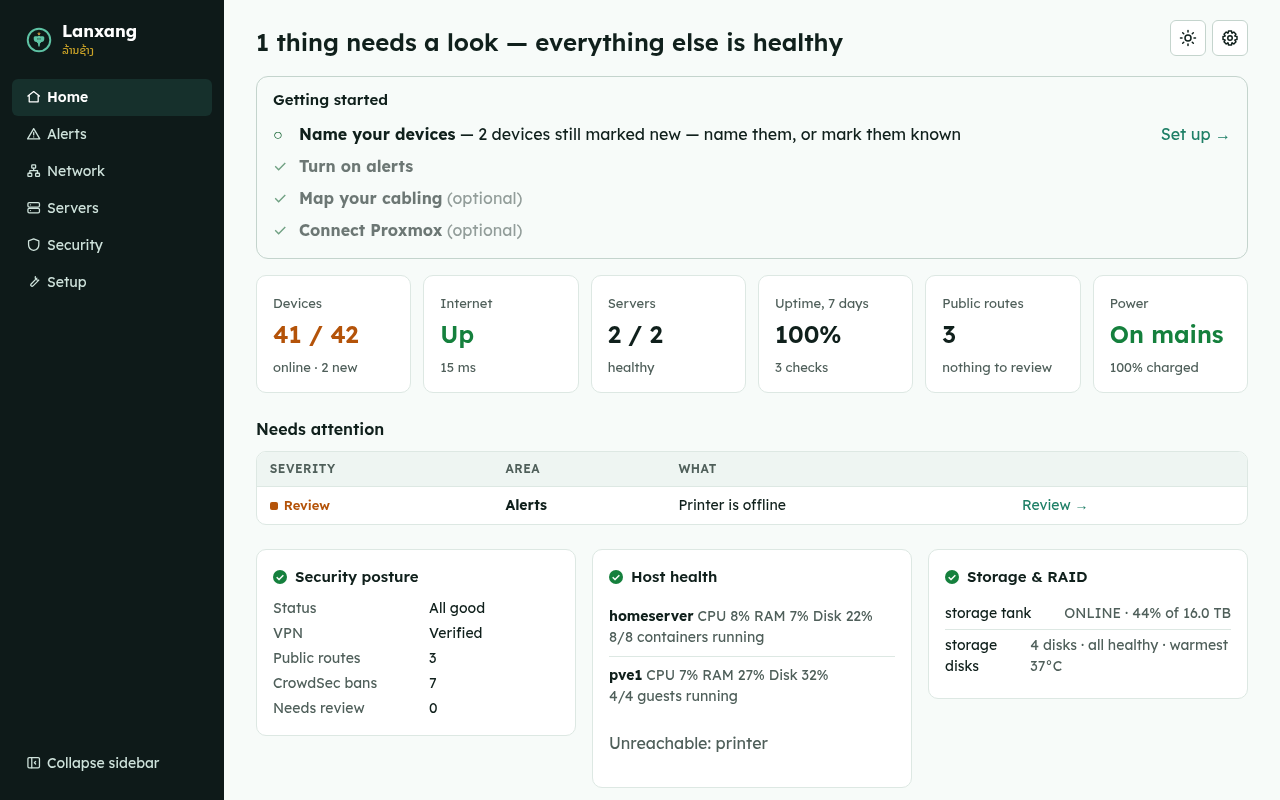
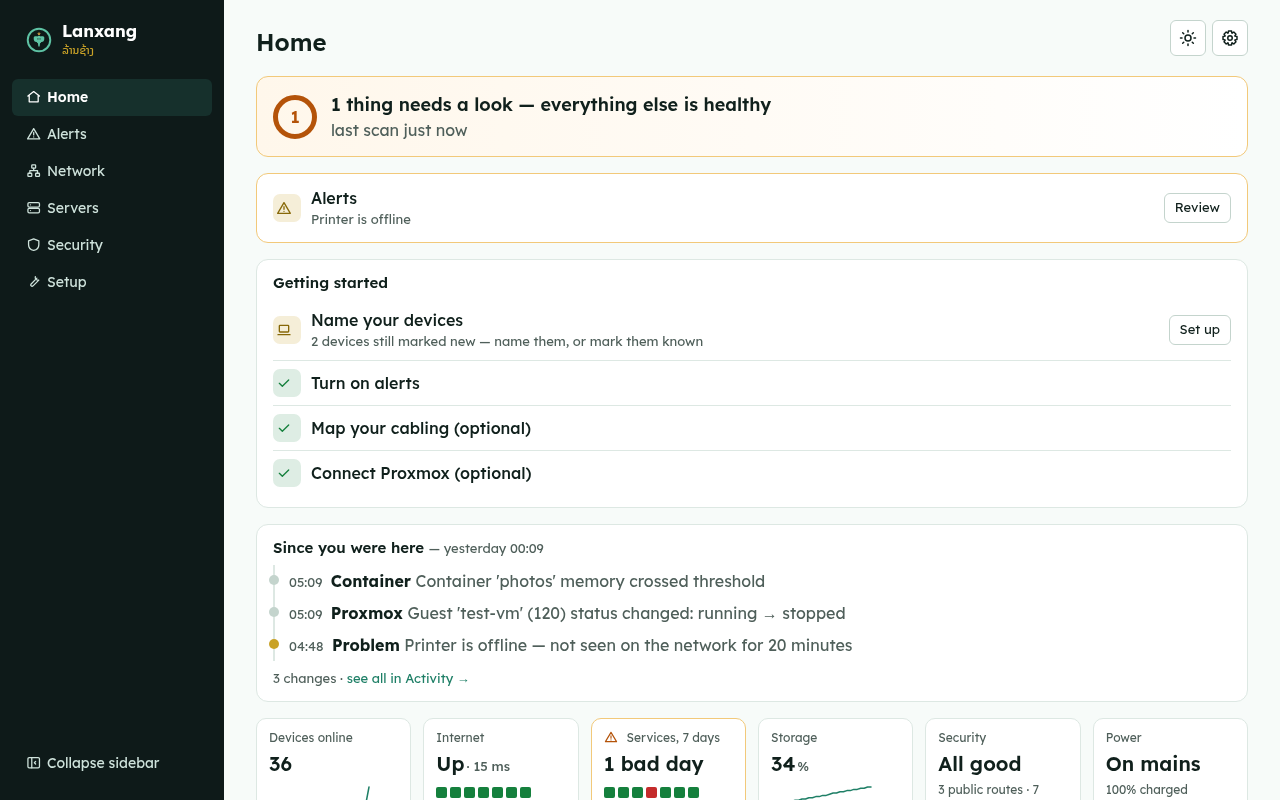
Release 1.5.0: design pass screenshots, docs and version

diff --git a/tests/test_cli_smoke.py b/tests/test_cli_smoke.py
@@ -16,7 +16,7 @@ def test_version():
     result = runner.invoke(app, ["version"])
 
     assert result.exit_code == 0
-    assert "1.4.2" in result.output
+    assert "1.5.0" in result.output
 
 
 def test_status():

diff --git a/lanxang/__init__.py b/lanxang/__init__.py
@@ -1,1 +1,1 @@
-__version__ = "1.4.2"
+__version__ = "1.5.0"

diff --git a/CHANGELOG.md b/CHANGELOG.md
@@ -3,7 +3,9 @@
 All notable changes to Lanxang. Versions follow [semantic versioning](https://semver.org); the
 Docker image is published as `ghcr.io/cyb3rron1n/lanxang:<version>` for every release.
 
-## Unreleased
+## 1.5.0 - 2026-11-20
+
+A design pass: Home becomes a briefing of what's wrong and what changed since your last visit, Coverage says whether you can trust the device list and how to see more, and Overview and Uptime get trend lines and a status line.
 
 ### Changed
 - Scan history (each source's runs) is kept for 8 days instead of the last 50 runs, so Coverage can show a week.
@@ -24,8 +26,8 @@ Docker image is published as `ghcr.io/cyb3rron1n/lanxang:<version>` for every re
   week counts, and a source whose latest run failed keeps the headline from reading as all-clear.
 - Security trends: the charts have gridlines and x/y values (sizes or counts up the side, times or weekdays along
   the bottom), in your own clock and time zone instead of UTC.
-- Overview: each host and Proxmox node meter (CPU, RAM, disk) has the last 24 hours as a small line beside it, a
-  short list of counts (containers, Proxmox guests, LAN hosts) links to where each is listed, and the inventory
+- Overview: each host and Proxmox node meter (CPU, RAM, disk) has the last 24 hours as a small line beside it (and the
+  page loads faster: it no longer computes Home's briefing), a short list of counts (containers, Proxmox guests, LAN hosts) links to where each is listed, and the inventory
   dump folds under "Raw snapshot".
 - Uptime: a headline over the checks ("All 3 checks up", "1 check down"), counting the built-in Internet check when
   it is on ("Internet down", "Internet and all 3 checks up"). A check with no recent result reads as unknown, never

diff --git a/docs/index.md b/docs/index.md
@@ -57,6 +57,22 @@ pieces fit together.
 
 <p align="center">
   <picture>
+    <source media="(prefers-color-scheme: dark)" srcset="images/screenshots/coverage-dark.png">
+    <img src="images/screenshots/coverage-light.png" alt="Coverage page: how many devices two or more sources see, a card per source with its last 7 days, and ways to see more of the network" style="max-width: 100%; width: 900px;">
+  </picture><br>
+  <sub>The Coverage page, shown with example data.</sub>
+</p>
+
+<p align="center">
+  <picture>
+    <source media="(prefers-color-scheme: dark)" srcset="images/screenshots/overview-dark.png">
+    <img src="images/screenshots/overview-light.png" alt="Servers overview: each host's CPU, RAM and disk with the last 24 hours as a small line, and counts of containers and Proxmox guests" style="max-width: 100%; width: 900px;">
+  </picture><br>
+  <sub>The Servers overview, shown with example data.</sub>
+</p>
+
+<p align="center">
+  <picture>
     <source media="(prefers-color-scheme: dark)" srcset="images/screenshots/setup-dark.png">
     <img src="images/screenshots/setup-light.png" alt="The Setup tab: what is on your network, then cards for ntfy, webhooks and email" style="max-width: 100%; width: 820px;">
   </picture><br>

diff --git a/README.md b/README.md
@@ -23,7 +23,7 @@ It never changes anything on its own. Restarting a container or a VM is only eve
 <p align="center">
   <picture>
     <source media="(prefers-color-scheme: dark)" srcset="docs/images/screenshots/home-dark.png">
-    <img src="docs/images/screenshots/home-light.png" alt="Lanxang home page: one sentence saying one thing needs a look, a Getting started checklist, number tiles for devices, internet, servers, uptime, public routes and power, a Needs attention table with the offline printer, and cards for security posture, host health and storage" width="90%">
+    <img src="docs/images/screenshots/home-light.png" alt="Lanxang home page: a status line saying one thing needs a look, the problem with a Review button, a Getting started checklist, Since you were here with the latest changes, and vitals tiles with a week of history" width="90%">
   </picture>
   <br>
   <picture>

diff --git a/docs/hardware.md b/docs/hardware.md
@@ -28,7 +28,7 @@ has already found is ticked for you.
 | **Any web service or port** | HTTP or TCP | Up/down alerts, response time, uptime % | Servers → Uptime |
 
 <p align="center">
-  <img src="images/screenshots/nas-degraded.png" alt="Lanxang home page with a TrueNAS pool that lost a disk: the Needs attention table and the Storage card both say storage tank is DEGRADED" style="max-width: 100%; width: 800px;"><br>
+  <img src="images/screenshots/nas-degraded.png" alt="Lanxang home page with a TrueNAS pool that lost a disk: the status line says two things need a look, with Storage (pool DEGRADED) and the open alert listed first" style="max-width: 100%; width: 800px;"><br>
   <em>A TrueNAS mirror losing a disk, as lanxang shows it.</em>
 </p>
 
